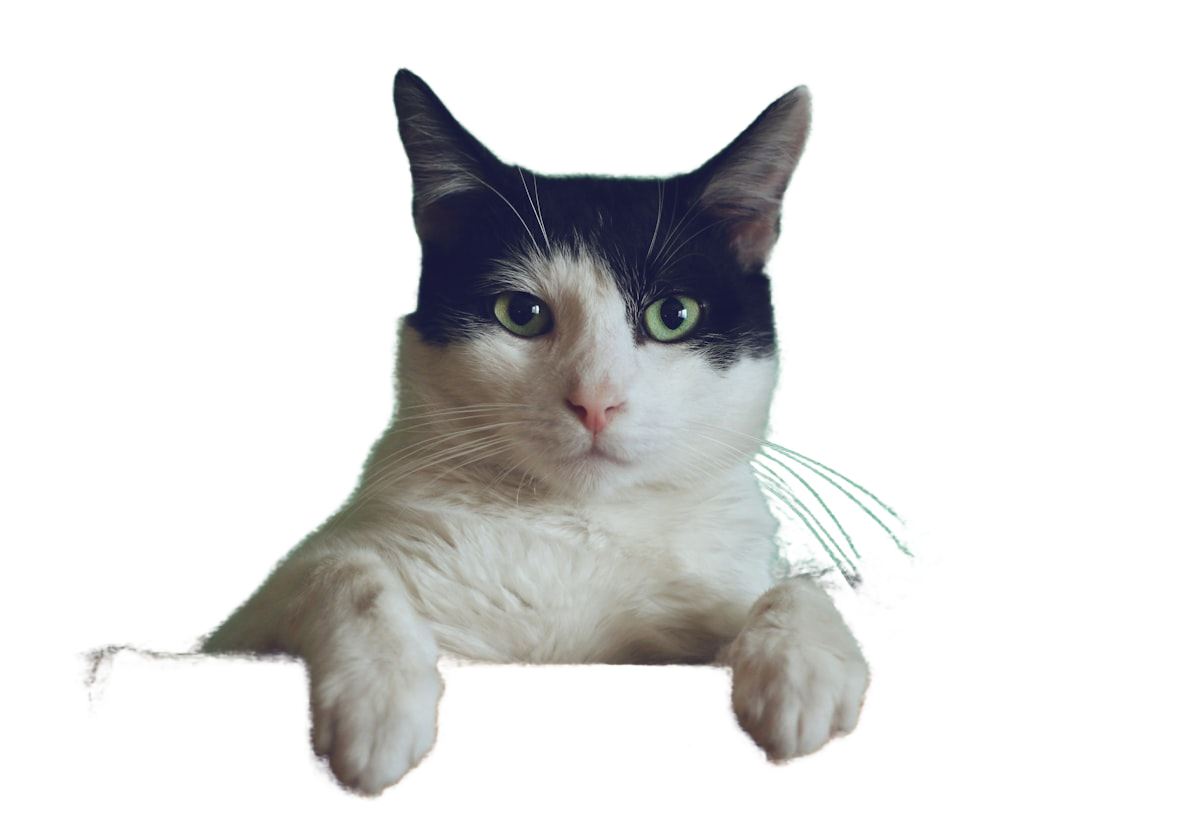
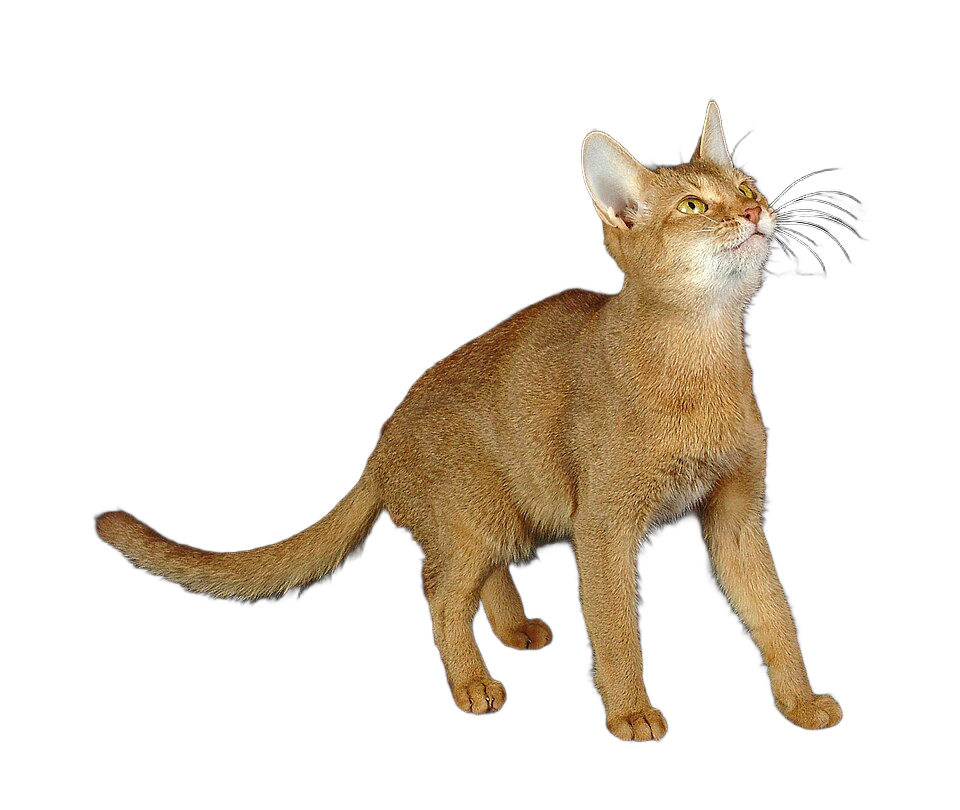
fix: complete showcase comparison range

diff --git a/src/components/site/QualityShowcase.tsx b/src/components/site/QualityShowcase.tsx
@@ -31,15 +31,15 @@ const SHOWCASE = [
     before: "/samples/pet.jpg",
     after: "/samples/pet-cutout.png",
     alt: "Pet photo before and after background removal",
-    width: 1200,
-    height: 826,
+    width: 960,
+    height: 810,
   },
 ] as const;
 
 const STAGE_MAX_HEIGHT = 460;
 
-const MIN_POS = 6;
-const MAX_POS = 94;
+const MIN_POS = 0;
+const MAX_POS = 100;
 
 /** 棋盘格:透明结果区域的视觉约定,避免被误认为白底 */
 const CHECKER_STYLE = {
@@ -113,35 +113,46 @@ export function QualityShowcase() {
           onPointerMove={(e) => {
             if (e.currentTarget.hasPointerCapture(e.pointerId)) updateFromClientX(e.clientX);
           }}
-          className="relative mx-auto mt-6 w-full cursor-ew-resize touch-none select-none overflow-hidden rounded-[8px] border border-border"
+          className="relative mx-auto mt-6 w-full cursor-ew-resize touch-none select-none"
           style={{
-            ...CHECKER_STYLE,
             aspectRatio: `${sample.width} / ${sample.height}`,
             maxWidth: `min(100%, ${STAGE_MAX_HEIGHT * (sample.width / sample.height)}px)`,
             maxHeight: STAGE_MAX_HEIGHT,
           }}
         >
-          {/* 原图:滑块左侧 */}
-          <Image
-            key={`${sample.id}-before`}
-            src={sample.before}
-            alt={`Original photo (${sample.label})`}
-            fill
-            sizes="(min-width: 896px) 896px, 100vw"
-            className="object-contain"
-            style={{ clipPath: `inset(0 ${100 - pos}% 0 0)` }}
-            priority={false}
-          />
-          {/* 抠图结果:滑块右侧,透明处露出棋盘格 */}
-          <Image
-            key={`${sample.id}-after`}
-            src={sample.after}
-            alt={`Background removed (${sample.label})`}
-            fill
-            sizes="(min-width: 896px) 896px, 100vw"
-            className="object-contain"
-            style={{ clipPath: `inset(0 0 0 ${pos}%)` }}
-          />
+          <div
+            className="absolute inset-0 overflow-hidden rounded-[8px] border border-border"
+            style={CHECKER_STYLE}
+          >
+            {/* 原图:滑块左侧 */}
+            <Image
+              key={`${sample.id}-before`}
+              src={sample.before}
+              alt={`Original photo (${sample.label})`}
+              fill
+              sizes="(min-width: 896px) 896px, 100vw"
+              className="object-contain"
+              style={{ clipPath: `inset(0 ${100 - pos}% 0 0)` }}
+              priority={false}
+            />
+            {/* 抠图结果:滑块右侧,透明处露出棋盘格 */}
+            <Image
+              key={`${sample.id}-after`}
+              src={sample.after}
+              alt={`Background removed (${sample.label})`}
+              fill
+              sizes="(min-width: 896px) 896px, 100vw"
+              className="object-contain"
+              style={{ clipPath: `inset(0 0 0 ${pos}%)` }}
+            />
+
+            <span className="absolute top-3 left-3 rounded-full bg-foreground/70 px-2.5 py-1 text-xs font-medium text-background backdrop-blur-sm">
+              Before
+            </span>
+            <span className="absolute top-3 right-3 rounded-full bg-background/80 px-2.5 py-1 text-xs font-medium text-foreground backdrop-blur-sm">
+              After
+            </span>
+          </div>
 
           <div
             role="slider"
@@ -159,12 +170,6 @@ export function QualityShowcase() {
             </div>
           </div>
 
-          <span className="absolute top-3 left-3 rounded-full bg-foreground/70 px-2.5 py-1 text-xs font-medium text-background backdrop-blur-sm">
-            Before
-          </span>
-          <span className="absolute top-3 right-3 rounded-full bg-background/80 px-2.5 py-1 text-xs font-medium text-foreground backdrop-blur-sm">
-            After
-          </span>
         </div>
 
         <p className="mt-4 text-center text-xs text-muted-foreground">

diff --git a/src/components/tool/BackgroundStudio.tsx b/src/components/tool/BackgroundStudio.tsx
@@ -670,7 +670,8 @@ export function BackgroundStudio() {
     setBatchExporting(item.id);
     try {
       if (!background || background.kind === "transparent") {
-        downloadBlob(item.outputBlob, resultFilename(item.name, "png"));
+        const saved = await saveBlob(item.outputBlob, resultFilename(item.name, "png"));
+        if (!saved) return;
         trackEvent("download_completed", {
           mode: "batch",
           format: "png",
@@ -686,7 +687,8 @@ export function BackgroundStudio() {
           { width: item.width, height: item.height },
           0.95,
         );
-        downloadBlob(blob, resultFilename(item.name, "jpg"));
+        const saved = await saveBlob(blob, resultFilename(item.name, "jpg"));
+        if (!saved) return;
         trackEvent("download_completed", {
           mode: "batch",
           format: "jpeg",
@@ -724,7 +726,8 @@ export function BackgroundStudio() {
     if (!cutout) return;
     const selected = selectedRef.current;
     if (!selected || selected.kind === "transparent") {
-      downloadBlob(cutout.blob, resultFilename(cutout.fileName, "png"));
+      const saved = await saveBlob(cutout.blob, resultFilename(cutout.fileName, "png"));
+      if (!saved) return;
       dispatch({ type: "downloaded" });
       trackEvent("download_completed", {
         mode: "single",
@@ -741,7 +744,8 @@ export function BackgroundStudio() {
         { width: cutout.width, height: cutout.height },
         0.95,
       );
-      downloadBlob(blob, resultFilename(cutout.fileName, "jpg"));
+      const saved = await saveBlob(blob, resultFilename(cutout.fileName, "jpg"));
+      if (!saved) return;
       dispatch({ type: "downloaded" });
       trackEvent("download_completed", {
         mode: "single",
@@ -816,10 +820,11 @@ export function BackgroundStudio() {
     trackEvent("comparison_used", { view });
   }, []);
 
-  const onTransparentDownload = useCallback(() => {
+  const onTransparentDownload = useCallback(async () => {
     const cutout = cutoutRef.current;
     if (!cutout) return;
-    downloadBlob(cutout.blob, resultFilename(cutout.fileName, "png"));
+    const saved = await saveBlob(cutout.blob, resultFilename(cutout.fileName, "png"));
+    if (!saved) return;
     dispatch({ type: "downloaded" });
     trackEvent("download_completed", {
       mode: "single",

diff --git a/public/samples/ATTRIBUTIONS.md b/public/samples/ATTRIBUTIONS.md
@@ -1,3 +1,3 @@
 # Sample image attributions
 
-- `pet.jpg`: “Cat sitting on a desk (42921038494)” by freestocks.org, via Wikimedia Commons. Public domain dedication (CC0): https://commons.wikimedia.org/wiki/File:Cat_sitting_on_a_desk_(42921038494).jpg
+- `pet.jpg`: “Cinnamon42-300” by Dr. Kristina Narfstrom, University of Missouri-Columbia, via Wikimedia Commons. Released into the public domain: https://commons.wikimedia.org/wiki/File:Cinnamon42-300.jpg
